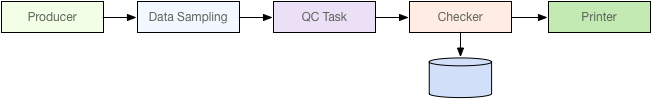
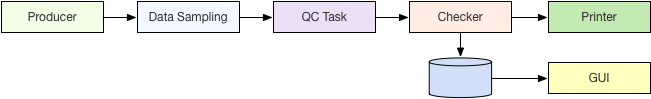
basic and readout workflow

diff --git a/README.md b/README.md
@@ -11,6 +11,7 @@
       * [Execution](#execution)
          * [Basic workflow](#basic-workflow)
          * [Readout chain](#readout-chain)
+   * [Configuration](#configuration)
    * [Modules development](#modules-development)
       * [Concepts](#concepts)
       * [Module creation](#module-creation)
@@ -28,14 +29,14 @@
          * [Prerequisite](#prerequisite)
          * [Compilation](#compilation)
          * [Execution](#execution-1)
-         * [Configuration](#configuration)
+         * [Configuration](#configuration-1)
       * [Information Service](#information-service)
          * [Usage](#usage-1)
       * [Use MySQL as QC backend](#use-mysql-as-qc-backend)
       * [Configuration files details](#configuration-files-details)
    * [Questions for the refactoring of the README](#questions-for-the-refactoring-of-the-readme)
 
-<!-- Added by: bvonhall, at: 2018-10-03T15:37+0200 -->
+<!-- Added by: bvonhall, at:  -->
 
 <!--te-->
 
@@ -69,23 +70,29 @@ To make sure that your system is correctly setup, we are going to run a basic QC
 
 ### Basic workflow
 
-We will run a basic workflow made of a XZC
-
-TODO schema and say what the task and the checker do.
+We will run a basic workflow described in the following schema.
 
 ![alt text](doc/images/basic-schema.png)
 
-To run it simply do
+The _Producer_ is a random data generator. In a more realistic setup it would be a processing device or the _Readout_. The _Data Sampling_ is the system in charge of dispatching data samples from the main data flow to the _QC tasks_. It can be configured to dispatch different proportion or different types of data. The _Checker_ is in charge of evaluating the _MonitorObjects_ produced by the _QC tasks_, for example by checking that the mean is above a certain limit. It can also modify the aspect of the histogram, e.g. by changing the background color or adding a PaveText. Finally the _Checker_ is also in charge of storing the resulting _MonitorObject_ into the repository where it will be accessible by the web GUI. It also pushes it to a _Printer_ for the sake of this tutorial.
+
+To run it simply do 
 
     qcRunBasic
-
-Thanks to the DPL (more details later) it is a single process that steers all the _devices_, i.e. processes making up the workflow. A window should appear that shows a graphical representation of the workflow. The output of any of the processes is available by double clicking a box. If a box is red it means that the process has stopped, probably abnormaly.
+    
+Thanks to the Data Processing Layer (DPL, more details later) it is a single process that steers all the _devices_, i.e. processes making up the workflow. A window should appear that shows a graphical representation of the workflow. The output of any of the processes is available by double clicking a box. If a box is red it means that the process has stopped, probably abnormaly. 
 
 ![alt text](doc/images/basic-dpl-gui.png)
 
-The data is stored in the [ccdb-test](ccdb-test.cern.ch:8080/browse) at CERN. If everything works fine you should see the objects being published in the QC web GUI (QCG) at this address : [https://qcg-test.cern.ch](https://qcg-test.cern.ch/?page=layoutShow&layoutId=5bb34a1d18a82bb283a487bd). The link actually brings you to a "layout" that shows the object (a histo titled "example") published by the task.
+__Repository and GUI__
+    
+The data is stored in the [ccdb-test](ccdb-test.cern.ch:8080/browse) at CERN. If everything works fine you should see the objects being published in the QC web GUI (QCG) at this address : [https://qcg-test.cern.ch](https://qcg-test.cern.ch/?page=layoutShow&layoutId=5bb34a1d18a82bb283a487bd). The link actually brings you to a "layout" that shows the object (a histo titled "example") published by the task. 
+
+TODO add a link to the user documentation of the QCG
 
 ![alt text](doc/images/basic-qcg.png)
+
+__Configuration file__ 
 
 The devices are configured in the config file named `basic.json`. It is installed in `$QUALITY_CONTROL/etc`. Each time you rebuild the code, `$QUALITY_CONTROL/etc/basic.json` is overwritten by the file in the source directory (`~/alice/QualityControl/Framework/basic.json`).
 
@@ -96,6 +103,7 @@ TODO check what is really needed in the config file
 In this second example, we are going to use the Readout as data source.
 
 TODO schema
+TODO make the qc task use the daq code
 
 The _Readout_ has to be configured to send data to the _Data Sampling_. Open the readout config file
 located at `$READOUT_ROOT/etc/readout.cfg` and make sure that the following properties are correct :
@@ -124,7 +132,7 @@ qcRunReadout
 
 This workflow is a bit different from the basic one. The _Readout_ is not a device and thus we have to have a _proxy_ to get data from it. This is the extra box going to the dispatcher, which then injects data to the task. The data sampling is configured to sample 1% of the data as the readout should run by default at full speed.
 
-# Configuration
+__Configuration file__ 
 
 The configuration file is in `$QUALITY_CONTROL/readout.json`.
 
